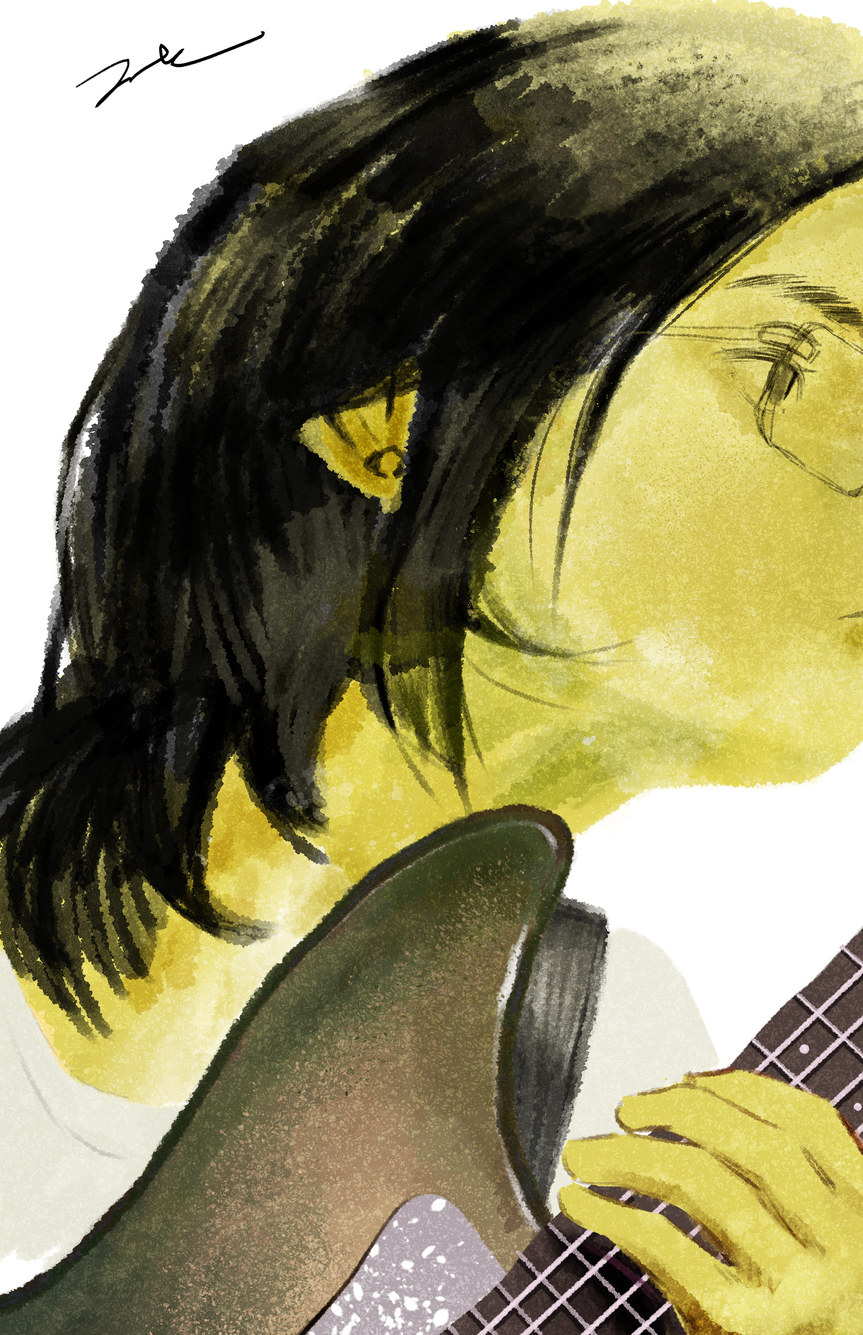
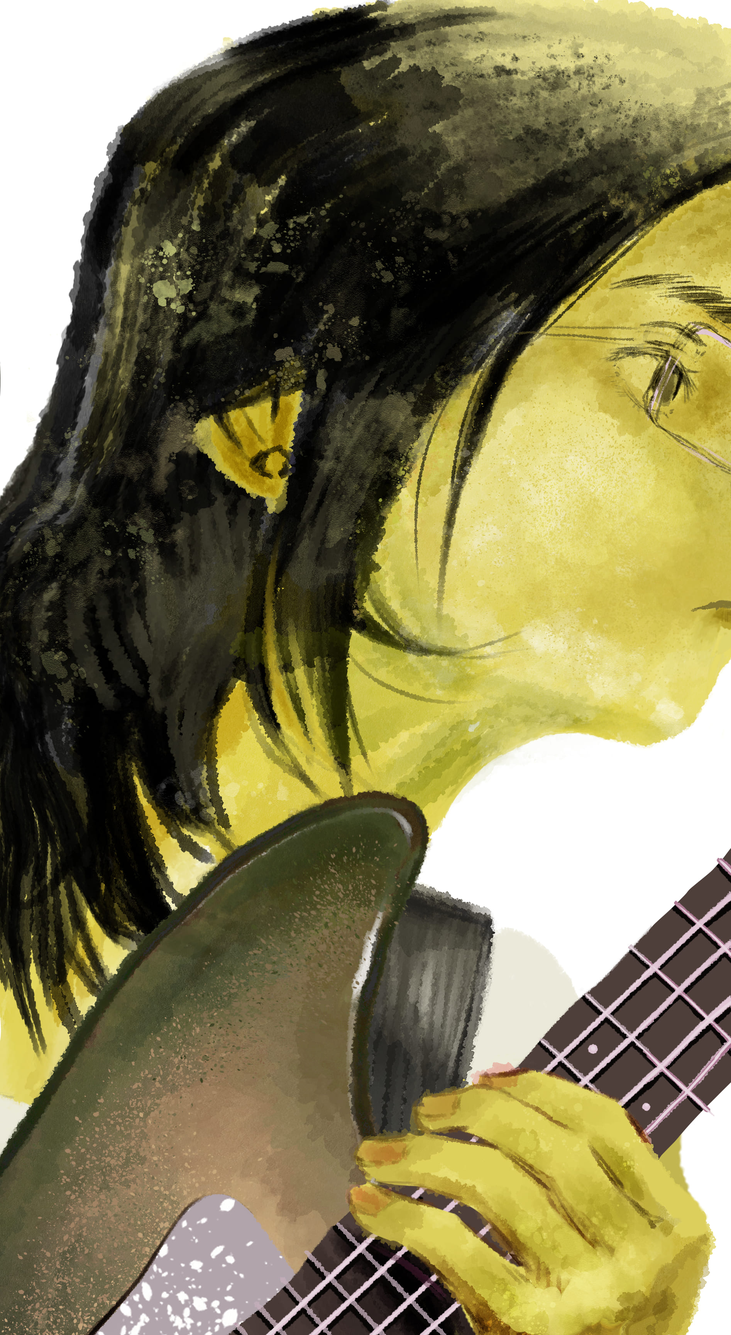
feat(play): GUITAR 이미지 교체

diff --git a/src/app/[locale]/play/playItemsData.ts b/src/app/[locale]/play/playItemsData.ts
@@ -10,14 +10,14 @@ const playItems: PlayItemListType = [
     content: "Digital Drawing, Clip Studio",
     imageOnly: false,
     thumnail: {
-      width: 736,
-      height: 736,
+      width: 474,
+      height: 474,
       imgUrl: PlayImages.Play7_1,
     },
     items: [
       {
-        width: 893,
-        height: 1382,
+        width: 947,
+        height: 1728,
         imgUrl: PlayImages.Play7_2,
       },
     ],
